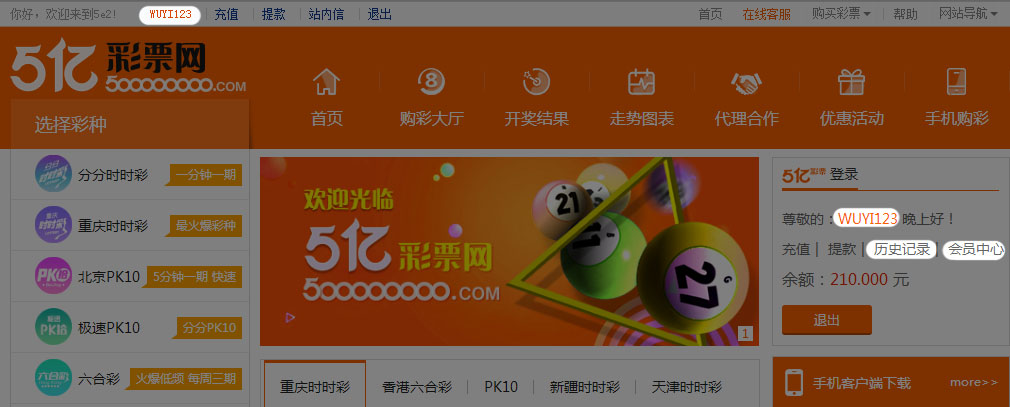
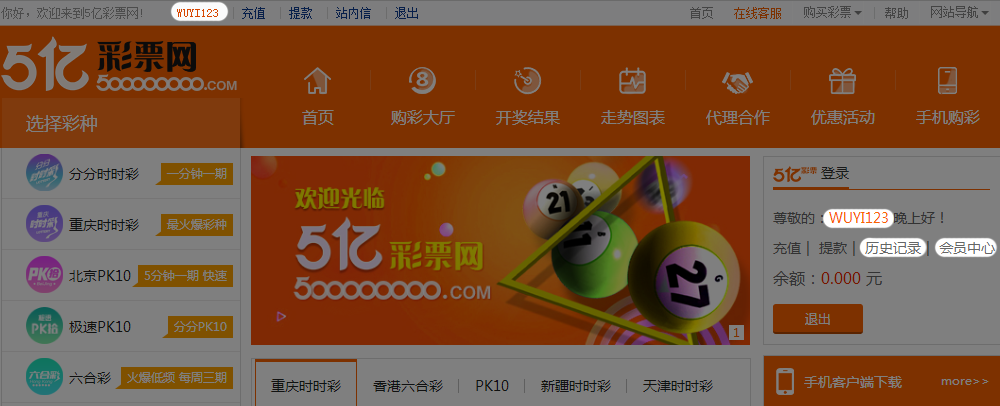
修改LOGO

diff --git a/mobile/src/main/java/project38/ssc/mobile/controller/IndexController.java b/mobile/src/main/java/project38/ssc/mobile/controller/IndexController.java
@@ -39,6 +39,7 @@ public class IndexController extends BaseController{
         String companyShortName = this.getCompanyShortName();
         Map<String, Object> modelMap = new HashMap<String, Object>();
         modelMap.put("kefuUrl", ApiUtils.getKefu(companyShortName).getKefuUrl());
+        modelMap.put("logo", ApiUtils.getLogo(1, companyShortName));
         return this.renderView("index/kefu", modelMap);
     }
 
